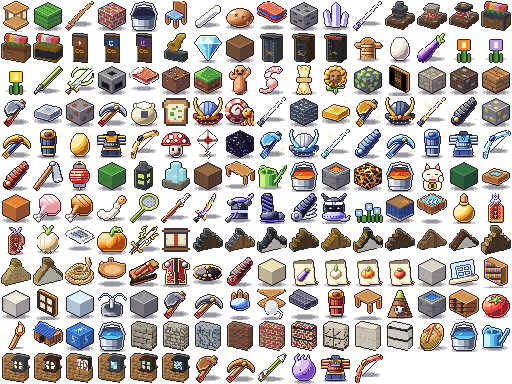
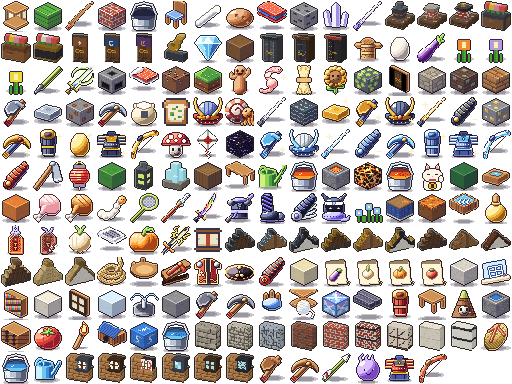
VOX-I-4b: すいしょう・とうろう・おちば の ブロック・アイテム・タイル・アイコン・光 (#187)
Claude-Session: https://claude.ai/code/session_013nE4QzFKYyVErTgK2z42dn

Changed region(s): [[0.0, 0.5, 1.0, 1.0]]

diff --git a/src/world/blocks/voxI4bTiles.ts b/src/world/blocks/voxI4bTiles.ts
@@ -1,0 +1,144 @@
+// vox-i-4b: すいしょう・とうろう・おちば の 1 コマめ（16x16、y=0 が 上）。voxI4aTiles.ts の GridTile / paintGrid を そのまま 使う（import して ね）。
+import type { GridTile } from './voxI4aTiles';
+
+const TILE_SUISHO_TOP: GridTile = {
+  pal: {W: '#F4FBFF', l: '#B8E4FA', b: '#86BDEB', p: '#B49CEA', d: '#5E7FC8'},
+  rows: [
+    'dddddddddddddddd',
+    'dpWppppWdpppppbd',
+    'dlWpppppdppppWWd',
+    'dllWppppppppWbbd',
+    'dlllWppppppWbbbd',
+    'dllllWbbllWbbbbd',
+    'dlllllWWWWbbbbbd',
+    'dddlllWWWWbbbbWd',
+    'dWbbbbWWWWlllddd',
+    'dbbbbbWWWWllllld',
+    'dbbbbWllbbWlllld',
+    'dbbbWlllbbbWllld',
+    'dbbWllllbbbbWlld',
+    'dWWlllldbbbbbWld',
+    'dbllllldWbbbbWbd',
+    'dddddddddddddddd',
+  ],
+};
+
+const TILE_SUISHO_SIDE: GridTile = {
+  pal: {W: '#F4FBFF', l: '#B8E4FA', b: '#86BDEB', p: '#B49CEA', d: '#5E7FC8'},
+  rows: [
+    'dddddddddddddddd',
+    'ddpppppdpppppddd',
+    'dWWppppdpppppWdd',
+    'dlWWpppdppppWWbd',
+    'dllWpppdpppWbbbd',
+    'dlllWppdppWbbbbd',
+    'dllllWbWlWbbbbbd',
+    'dlllllWWWbbbbbbd',
+    'dddddWWWWWdddddd',
+    'dbbbbbWWWlllllld',
+    'dbbbbWlWbWllllld',
+    'dbbbWlldbbWlllld',
+    'dbbWllldbbbWWlld',
+    'dWWlllldbbbbWlld',
+    'dWllllldbbbbWWdd',
+    'dddddddddddddddd',
+  ],
+};
+
+const TILE_TOURO_TOP: GridTile = {
+  pal: {s: '#9A9AA6', t: '#B8B8C4', u: '#6E6E80', o: '#F0A838', O: '#F7C860', e: '#FFFFFF', k: '#2A1A24', n: '#E8607A', m: '#8A3A2A', q: '#C8801E'},
+  rows: [
+    'tttttttttttttttt',
+    'tssssssssssssssu',
+    'tssssssssssssssu',
+    'tssuuuuuuuuuussu',
+    'tssuttttttttsssu',
+    'tssutOOOOOqtsssu',
+    'tssutOooooqtsssu',
+    'tssutOooooqtsssu',
+    'tssutOooooqtsssu',
+    'tssutOooooqtsssu',
+    'tssutqqqqqqtsssu',
+    'tssuttttttttsssu',
+    'tssusssssssssssu',
+    'tssssssssssssssu',
+    'tssssssssssssssu',
+    'tuuuuuuuuuuuuuuu',
+  ],
+};
+
+const TILE_TOURO_SIDE: GridTile = {
+  pal: {s: '#9A9AA6', t: '#B8B8C4', u: '#6E6E80', o: '#F0A838', O: '#F7C860', e: '#FFFFFF', k: '#2A1A24', n: '#E8607A', m: '#8A3A2A', q: '#C8801E'},
+  rows: [
+    'tttttttttttttttt',
+    'tssssssssssssssu',
+    'tsqqqqqqqqqqqqsu',
+    'tsqOOoeeeeoOOqsu',
+    'tsqooeeekeeooqsu',
+    'tsqooeekkeeooqsu',
+    'tsqooeekkeeooqsu',
+    'tsqooeekkeeooqsu',
+    'tsqoooeeeeoooqsu',
+    'tsqooooooooooqsu',
+    'tsqommmmmmmmoqsu',
+    'tsqooonnnnoooqsu',
+    'tsqoooonnooooqsu',
+    'tsqqqqqqqqqqqqsu',
+    'tssssssssssssssu',
+    'uuuuuuuuuuuuuuuu',
+  ],
+};
+
+const TILE_OCHIBA_TOP: GridTile = {
+  pal: {R: '#B8422A', r: '#8E2E22', O: '#D8782A', Y: '#E8B83A', y: '#F2D46A', D: '#8B5A2B', d: '#6F4520', L: '#A06A38'},
+  rows: [
+    'OOOOOYYOOOOOOOOO',
+    'ORROOYOYYOOOOOrO',
+    'ORrOOOOYOrrOOOOO',
+    'OOOOOOOOOrOOOOOO',
+    'OOOyyOOOOOOOOOrr',
+    'OOOyOOORROOYYOrO',
+    'OrrOOOORrOOYOOOO',
+    'OrOOOOOOOOOOOOOO',
+    'OOOOOOOORROOOOOO',
+    'OrOOyyOORrOOYYOO',
+    'OOOOyOOOOOOOYOOO',
+    'OOOOOOOOOOOOOOOO',
+    'OOrrOOOOOOyyOOOO',
+    'OOrOOOOOOOyOOORR',
+    'OOOOOOOrOOOOOORr',
+    'OOOOOOOOOOOOOOOO',
+  ],
+};
+
+const TILE_OCHIBA_SIDE: GridTile = {
+  pal: {R: '#B8422A', r: '#8E2E22', O: '#D8782A', Y: '#E8B83A', y: '#F2D46A', D: '#8B5A2B', d: '#6F4520', L: '#A06A38'},
+  rows: [
+    'RrRYOOOYRrRYOOOY',
+    'YOORYRrRYROOYRRR',
+    'rYrDRYrrODrrRrDO',
+    'DrDDrODDrDDOrDDr',
+    'DDDDDrDDDDDrDDDD',
+    'DDDDDDDDDDDDDDDD',
+    'DDDDdDDDDDDDDDDD',
+    'dDDDDdDDDDDDDDDD',
+    'LdDDDDDDDDDDDDDD',
+    'DDDDdDLDDDDDDDDD',
+    'DLDDDDDDDDDDDDdD',
+    'DLLdDdDDLDDDDDDL',
+    'DDDDDDDDDDDdDdDD',
+    'DDdDDDDDDDDDDDDD',
+    'DDdDDDDDDDDDDDDD',
+    'DDDDDDDLDDDDDDDD',
+  ],
+};
+
+/** タイル名 → 1 コマめの 絵（textures.ts の VoxITileName と 同じ 名前。足し忘れは 型エラー）。まばたき・いき・つぶは #186 */
+export const VOX_I4B_GRIDS = {
+  suisho_top: TILE_SUISHO_TOP,
+  suisho_side: TILE_SUISHO_SIDE,
+  touro_top: TILE_TOURO_TOP,
+  touro_side: TILE_TOURO_SIDE,
+  ochiba_top: TILE_OCHIBA_TOP,
+  ochiba_side: TILE_OCHIBA_SIDE,
+} as const satisfies Record<string, GridTile>;

diff --git a/src/world/blocks/textures.ts b/src/world/blocks/textures.ts
@@ -17,6 +17,7 @@ import { BOIL_NAMES, WATERFALL_BLOCK_TILES, WATERFALL_TILE_NAMES, isWaterfallTil
 import { paintLeafTile } from './leafTextures';
 import { HOUSE_ATLAS_TILE_NAMES, HOUSE_BLOCK_TILES, isHouseTile, paintHouseTile, type HouseAtlasTile } from './houseTextures';
 import { VOX_I4A_GRIDS, paintGrid } from './voxI4aTiles';
+import { VOX_I4B_GRIDS } from './voxI4bTiles';
 import { protoBambooPixels, protoLeafPixels } from '../render/leafBambooArt';
 
 /** 16x16 ドット絵をコードで描く（M1-01 4-2 の色）。 */
@@ -61,8 +62,10 @@ export type TileName =
 /** VOX-I-1（12 の国）のふつうの絵（一ひねりの絵は #185） */
 export type VoxITileName = 'snow' | 'momiji_leaves' | 'matsu_leaves' | 'flower_y' | 'flower_o' | 'flower_p' | 'bamboo' | 'susuki' | 'kusa' | 'nobana'
   // VOX-I-4a（#187。国だけの物 その 1 の 1 コマめ。絵は voxI4aTiles.ts）
-  | 'kinoko' | 'himawari_ue' | 'himawari_shita' | 'kaigara' | 'takenoko';
-const VOX_I_TILES: readonly VoxITileName[] = ['snow', 'momiji_leaves', 'matsu_leaves', 'flower_y', 'flower_o', 'flower_p', 'bamboo', 'susuki', 'kusa', 'nobana', 'kinoko', 'himawari_ue', 'himawari_shita', 'kaigara', 'takenoko'];
+  | 'kinoko' | 'himawari_ue' | 'himawari_shita' | 'kaigara' | 'takenoko'
+  // VOX-I-4b（#187。山の物の 1 コマめ。絵は voxI4bTiles.ts）
+  | 'suisho_top' | 'suisho_side' | 'touro_top' | 'touro_side' | 'ochiba_top' | 'ochiba_side';
+const VOX_I_TILES: readonly VoxITileName[] = ['snow', 'momiji_leaves', 'matsu_leaves', 'flower_y', 'flower_o', 'flower_p', 'bamboo', 'susuki', 'kusa', 'nobana', 'kinoko', 'himawari_ue', 'himawari_shita', 'kaigara', 'takenoko', 'suisho_top', 'suisho_side', 'touro_top', 'touro_side', 'ochiba_top', 'ochiba_side'];
 
 /** M7 農業の絵の名前（`farm.texture` の name と同じ） */
 export type FarmTileName =
@@ -368,7 +371,7 @@ function paintTile(name: TileName): Tile {
   if (name === MAKIMONO_TILE) return paintMakimonoTile().slice(); // HOUSE-2A: まきもの
   if (isRopeTile(name)) return paintRopeTile(name).slice(); // ROPE-1
   if (isWaterfallTile(name)) return paintWaterfallTile(name).slice(); // WATERFALL-1
-  const grid = (VOX_I4A_GRIDS as Readonly<Record<string, Parameters<typeof paintGrid>[0]>>)[name]; // VOX-I-4a: すきまの ある 十字の 板は calm() を かけない（はな・すすきと 同じ）
+  const grid = (VOX_I4A_GRIDS as Readonly<Record<string, Parameters<typeof paintGrid>[0]>>)[name] ?? (VOX_I4B_GRIDS as Readonly<Record<string, Parameters<typeof paintGrid>[0]>>)[name]; // VOX-I-4a: すきまの ある 十字の 板は calm() を かけない（はな・すすきと 同じ）
   if (grid !== undefined) return paintGrid(grid);
   if (isHouseTile(name)) return paintHouseTile(name).map((c): Rgba => [(c >> 16) & 255, (c >> 8) & 255, c & 255, 255]); // HOUSE-1C: 家の ブロック・家具
   switch (name) {
@@ -564,6 +567,10 @@ export const BLOCK_TILES: Readonly<Partial<Record<BlockId, readonly [TileName, T
   himawari_top: ['himawari_ue', 'himawari_ue', 'himawari_ue'],
   kaigara: ['kaigara', 'kaigara', 'kaigara'],
   takenoko: ['takenoko', 'takenoko', 'takenoko'],
+  // VOX-I-4b: 山の物（[上, 下, よこ]）
+  suisho: ['suisho_top', 'suisho_side', 'suisho_side'],
+  touro: ['touro_top', 'touro_side', 'touro_side'],
+  ochiba: ['ochiba_top', 'dirt', 'ochiba_side'],
   // #293 試作
   geyser_dirt: ['geyser_dirt_top', 'geyser_dirt_side', 'geyser_dirt_side'],
   // ITEM-FX-1: 置き物 3 つ（形は meshChunk の pushProp。ここは ひび・かけらの 色用）

diff --git a/src/content/items/blocks.test.ts b/src/content/items/blocks.test.ts
@@ -57,6 +57,8 @@ const EXPECT: Record<string, Expect> = {
 const IDS = Object.keys(EXPECT);
 /** VOX-I-4a（#187）で 足した 4 つ（きのこ・ひまわり・かいがら・たけのこ）。説明は なし（かざり）。値は voxI4a の 専用テストで 見る */
 const VOX_I_4A = ['kinoko', 'himawari', 'kaigara', 'takenoko'];
+/** VOX-I-4b（#187）で 足した 2 つ（すいしょう・おちば）。説明は あり。値は voxI4b の 専用テストで 見る（とうろうは 持てないので アイテムに ならない） */
+const VOX_I_4B = ['suisho', 'ochiba'];
 
 describe('登録表（置けるブロック 22 個）', () => {
   it('22 個すべてに ItemDef が ある（8 + 5 + 1 + 8）', () => {
@@ -64,8 +66,8 @@ describe('登録表（置けるブロック 22 個）', () => {
     expect(Object.keys(PLACEABLE)).toHaveLength(8);
     expect(Object.keys(M4_BLOCKS)).toEqual(['furnace', 'kawara', 'brick', 'torch', 'tansu']);
     expect(Object.keys(GEYSER)).toEqual(['geyser_dirt']);
-    expect(Object.keys(VOX_I)).toHaveLength(8 + VOX_I_4A.length);
-    expect([...Object.keys(PLACEABLE), ...Object.keys(M4_BLOCKS), ...Object.keys(GEYSER), ...Object.keys(VOX_I)].sort()).toEqual([...IDS, ...VOX_I_4A].sort());
+    expect(Object.keys(VOX_I)).toHaveLength(8 + VOX_I_4A.length + VOX_I_4B.length);
+    expect([...Object.keys(PLACEABLE), ...Object.keys(M4_BLOCKS), ...Object.keys(GEYSER), ...Object.keys(VOX_I)].sort()).toEqual([...IDS, ...VOX_I_4A, ...VOX_I_4B].sort());
     for (const id of IDS) expect(itemDef(id), id).toBeDefined();
   });
 
@@ -87,8 +89,8 @@ describe('登録表（置けるブロック 22 個）', () => {
   });
 
   it('説明が 無い 9 個は 地形・かざり（geyser_dirt と 12 の国の 8 つ。許可リストは noInfoOk.ts の 1 か所）', () => {
-    expect([...IDS, ...VOX_I_4A].filter((id) => !itemDef(id)!.info).sort()).toEqual(Object.keys(NO_INFO_OK).sort());
-    expect(Object.keys(NO_INFO_OK)).toHaveLength(9 + VOX_I_4A.length);
+    expect([...IDS, ...VOX_I_4A, ...VOX_I_4B].filter((id) => !itemDef(id)!.info).sort()).toEqual(Object.keys(NO_INFO_OK).sort());
+    expect(Object.keys(NO_INFO_OK)).toHaveLength(9 + VOX_I_4A.length + VOX_I_4B.length);
   });
 
   it('ITEM_TYPES の 並び: 先頭 8 → ざいりょう 7 → かまど・かわら・レンガ・たいまつ・たんす / 侍装備の 次に 間欠泉の つち / バケツの 次に 12 の国の 8 つ', () => {
@@ -103,8 +105,8 @@ describe('登録表（置けるブロック 22 個）', () => {
   });
 
   it('色分けの 並び: 古い表と 同じ', () => {
-    expect(CATEGORY_ITEMS.soil).toEqual(['dirt', 'sand', 'snow', 'geyser_dirt']);
-    expect(CATEGORY_ITEMS.stone).toEqual(['stone']);
+    expect(CATEGORY_ITEMS.soil.filter((id) => !VOX_I_4B.includes(id))).toEqual(['dirt', 'sand', 'snow', 'geyser_dirt']);
+    expect(CATEGORY_ITEMS.stone.filter((id) => !VOX_I_4B.includes(id))).toEqual(['stone']);
     // MINE-1B: 鉱石の 分けに せっかいせき・ほたるいし・きんの いし、たてものの 分けに しっくいが ふえる。今の 物の 並びは かわらない（新しい 物の 位置は 決めない）
     const keep = (list: readonly string[], ids: readonly string[]): string[] => list.filter((id) => ids.includes(id));
     expect(keep(CATEGORY_ITEMS.ore, ['coal_ore', 'iron_ore'])).toEqual(['coal_ore', 'iron_ore']);

diff --git a/src/world/light/opacity.ts b/src/world/light/opacity.ts
@@ -20,5 +20,8 @@ const ANDON_INDEX: ReadonlySet<number> = new Set(FURN_BLOCK_IDS.filter((id) => i
 /** WATERFALL-1: マグマ（量 1〜8）は 光る（マグマの わきどころは 光らない。出た マグマが 光る） */
 const MAGMA_GLOW: ReadonlySet<number> = new Set(BLOCK_TYPES.map((_, i) => i).filter((i) => isMagmaIndex(i)));
 
+/** 山の物（VOX-I-4b）の 光: すいしょう = suishoLevel、とうろう = たいまつと 同じ。光る 山の 物を ふやす ときは ここ */
+const MOUNTAIN_GLOW: ReadonlyMap<number, number> = new Map<number, number>([[BLOCK_INDEX.suisho, C.suishoLevel], [BLOCK_INDEX.touro, C.torchLevel]]);
+
 /** ブロックが出す光（0 = 光らない） */
-export const EMISSION: Uint8Array = Uint8Array.from(BLOCK_TYPES, (_, i) => (isTorchIndex(i) || ANDON_INDEX.has(i) ? C.torchLevel : isLampIndex(i) ? GADGET_TUNING.lantern.light : i === HOTARUISHI ? C.hotaruishiLevel : MAGMA_GLOW.has(i) ? MAGMA_TUNING.light : 0)); // ちょうちんは 表の 強さ（ITEM-FX-1）。ほたるいしは 光る 固い ブロック（MINE-1B。光は となりの 空気へ 広がる）
+export const EMISSION: Uint8Array = Uint8Array.from(BLOCK_TYPES, (_, i) => (isTorchIndex(i) || ANDON_INDEX.has(i) ? C.torchLevel : isLampIndex(i) ? GADGET_TUNING.lantern.light : i === HOTARUISHI ? C.hotaruishiLevel : MAGMA_GLOW.has(i) ? MAGMA_TUNING.light : MOUNTAIN_GLOW.get(i) ?? 0)); // ちょうちんは 表の 強さ（ITEM-FX-1）。ほたるいしは 光る 固い ブロック（MINE-1B。光は となりの 空気へ 広がる）

diff --git a/src/dig/config.ts b/src/dig/config.ts
@@ -137,6 +137,10 @@ export const DIG_DEFAULTS: Readonly<DigConfig> = {
     himawari_top: 0.05,
     kaigara: 0.05,
     takenoko: 0.05,
+    // VOX-I-4b（山の物。すいしょう = 3 秒、おちば = つちと 同じ、とうろう = こわせない）
+    suisho: 3,
+    touro: null,
+    ochiba: 0.5,
     // MINE-1B（#349。仕様 §4.4。素手の 秒数。時間 = 固さ ÷ 道具の 強さ）
     nendo: 1, // つち より 少し かたい（すでで 1 秒）
     sekkaiseki: 5, // いしの つるはし（強さ 4）で 1.25 秒
@@ -264,6 +268,9 @@ export const DIG_DEFAULTS: Readonly<DigConfig> = {
     himawari_top: 0,
     kaigara: 0,
     takenoko: 0,
+    suisho: 0,
+    touro: 0,
+    ochiba: 0,
     // MINE-1B（0 = すで・1 = いしの つるはし・2 = てつの つるはし から）
     nendo: 0,
     sekkaiseki: 1,
@@ -381,6 +388,9 @@ export const DIG_DEFAULTS: Readonly<DigConfig> = {
     himawari_top: 'common',
     kaigara: 'common',
     takenoko: 'common',
+    suisho: 'rare',
+    touro: 'common',
+    ochiba: 'common',
     // MINE-1B（ほると 手に 入る 数の 上限を きめる。しるしは 何も 出ない ので 使わない）
     nendo: 'uncommon',
     sekkaiseki: 'uncommon',

diff --git a/src/world/blocks/calm.test.ts b/src/world/blocks/calm.test.ts
@@ -207,6 +207,8 @@ describe('CALM 基準 5: 変えない絵は 1 画素も変わらない', () => {
     bamboo: 'bcd51113', flower_o: '2fbe135', flower_p: '7f48c5f5', flower_y: 'e647bd15',
     // VOX-I-4a（#187）: 国だけの物 その 1 の 4 ブロック（5 まい）の 1 コマめ。絵は voxI4aTiles.ts（calm は かけない）。今の 絵を 守るだけ
     kinoko: '4b272997', himawari_ue: 'e8750110', himawari_shita: 'f33d35c1', kaigara: '3442b0bb', takenoko: 'd37c2893',
+    // VOX-I-4b（#187）: 山の物の 3 ブロック（6 まい）。絵は voxI4bTiles.ts。今の 絵を 守るだけ
+    suisho_top: '633d5d4d', suisho_side: '432a5080', touro_top: 'a6e5081e', touro_side: 'b514d7c4', ochiba_top: '11465b83', ochiba_side: '83e8cd33',
     // はっぱ 3 まい: もこもこの 新しい 絵（2026-11-10 オーナー OK。leafTextures.ts）。今の 絵を 守るだけ
     leaves: 'ef89d522', matsu_leaves: '55235a61', momiji_leaves: '6d479be2', snow: 'b5d0ee8f', susuki: '58e578b5',
     // LIVE-2（こたつ・とりごや。ふつうの 絵。今の 絵を 守るだけ）

diff --git a/src/dig/mineBoken.test.ts b/src/dig/mineBoken.test.ts
@@ -106,7 +106,7 @@ describe('E12: 新しい ブロックの 値', () => {
 
   it('1E で 足した id は 10 こ 以下・合計は 256 以下', () => {
     expect(BLOCK_TYPES.length - BLOCKS_THROUGH_1D, '1E で 足した id').toBeGreaterThanOrEqual(ROWS.length);
-    expect(BLOCK_TYPES.length - BLOCKS_THROUGH_1D, '1E で 足した id').toBeLessThanOrEqual(10 + 5 + 20 + 5); // 20 ＝ HOUSE-2B の 形ごとの ブロック 20 ＋ 5 ＝ HOUSE-2A（#364）が 後ろに 足した まきもの 1 ＋ まねきねこ 4（向き）＋ 最後の 5 ＝ VOX-I-4a（#187）の 国だけの 物 5 こ
+    expect(BLOCK_TYPES.length - BLOCKS_THROUGH_1D, '1E で 足した id').toBeLessThanOrEqual(10 + 5 + 20 + 5 + 3); // 20 ＝ HOUSE-2B の 形ごとの ブロック 20 ＋ 5 ＝ HOUSE-2A（#364）が 後ろに 足した まきもの 1 ＋ まねきねこ 4（向き）＋ 最後の 5 ＝ VOX-I-4a（#187）の 国だけの 物 5 こ ＋ 3 ＝ VOX-I-4b（#187）の 山の 物 3 こ（すいしょう・とうろう・おちば）
     expect(BLOCK_TYPES.length).toBeLessThanOrEqual(256);
   });
 });

diff --git a/src/contracts/world.ts b/src/contracts/world.ts
@@ -145,7 +145,11 @@ export type BlockId =
   | 'himawari' // ひまわり（はなばたけ。2 段の 下の 段 = くき。ほると himawari 1 こ）
   | 'himawari_top' // ひまわり の 上の 段（花）。持ち物に 入らない（ほると himawari）
   | 'kaigara' // かいがら（すなはま。すなの 上の 小さな 板）
-  | 'takenoko'; // たけのこ（たけやぶ）
+  | 'takenoko' // たけのこ（たけやぶ）
+  // VOX-I-4b（#187。うしろに足す。242〜244）: 山の物（固い 箱）
+  | 'suisho' // すいしょう（いわやま。光 9。ほれる・持てる・置ける）。炭鉱の suisho_ore・アイテム crystal とは べつ
+  | 'touro' // とうろう（てんぐの やま の 頂上。光 14。こわせない・持てない）
+  | 'ochiba'; // おちば（もみじやま の もみじの木の まわりの 地面。ほれる・持てる・置ける）
 
 export interface BlockType {
   id: BlockId;

diff --git a/src/ui/itemCategory.ts b/src/ui/itemCategory.ts
@@ -47,8 +47,8 @@ const blocksIn = (cat: ItemCategory, ids: readonly ItemDefId[]): string[] => reg
  */
 const ORDER_ITEMS: Readonly<Record<ItemCategory, readonly string[]>> = {
   // 置ける ブロックの 分類は 登録表（content/items/blocks.ts）の category から
-  soil: blocksIn('soil', ['dirt', 'sand', 'snow', 'geyser_dirt']),
-  stone: blocksIn('stone', ['stone']),
+  soil: blocksIn('soil', ['dirt', 'sand', 'snow', 'geyser_dirt', 'ochiba']),
+  stone: blocksIn('stone', ['stone', 'suisho']),
   plant: [...blocksIn('plant', ['grass', 'log', 'leaves']), ...registryCategoryIds('plant', SEED_DEFS), ...blocksIn('plant', ['momiji_leaves', 'matsu_leaves', 'flower_y', 'flower_o', 'flower_p', 'bamboo']), ...registryCategoryIds('plant', LIVE_DEFS), ...blocksIn('plant', ['nobana', 'kinoko', 'himawari', 'kaigara', 'takenoko'])],
   ore: blocksIn('ore', ['coal_ore', 'iron_ore']),
   build: blocksIn('build', ['kawara', 'brick']),

diff --git a/src/content/items/blocks.ts b/src/content/items/blocks.ts
@@ -280,6 +280,23 @@ export const VOX_I = {
     rarity: blockRarity('takenoko'),
     category: 'plant',
   },
+  // VOX-I-4b（#187）: 山の物 2 つ（とうろう touro は こわせない・持てない ので アイテムに ならない）
+  suisho: {
+    name: blockName('suisho'),
+    zukan: 'いわやまの くぼみで ひかる すいしょう。ほり［出｜だ］して おけば、よるでも まわりが ほんのり あかるいよ。',
+    maxStack: BLOCK_STACK,
+    placeBlock: 'suisho',
+    rarity: blockRarity('suisho'),
+    category: 'stone',
+  },
+  ochiba: {
+    name: blockName('ochiba'),
+    zukan: 'もみじの ［木｜き］の したに つもった あかい おちば。ふむと ふかふか して いそう。',
+    maxStack: BLOCK_STACK,
+    placeBlock: 'ochiba',
+    rarity: blockRarity('ochiba'),
+    category: 'soil',
+  },
 } satisfies Partial<Record<BlockId, ItemDef>>;
 
 /**

diff --git a/src/world/light/config.ts b/src/world/light/config.ts
@@ -5,6 +5,8 @@ export const LIGHT_CONFIG = {
   torchLevel: 14,
   /** ほたるいし（MINE-1B）の明るさ。置いた マスが 7・となり 6・2 マス 先 5（空気の 中を 1 マスずつ。たいまつの 半分。yuzu「光りすぎじゃない？」で 10 → 7） */
   hotaruishiLevel: 7,
+  /** すいしょう（VOX-I-4b #187。山の物）の明るさ。置いた マスが 9・3 マス先まで 光が 届いて 妖怪が 出ない（たいまつの 14・8 マスの 下）。とうろうは たいまつと 同じ torchLevel */
+  suishoLevel: 9,
   /** たいまつの明るさは 3 だんかい（オーナー決定）: 光が空気を 1 マスずつ広がる数え方で、
    *  4 マスまで＝強い明かり、5〜8 マス＝少し明るい、それより遠い＝明かりなし */
   torchBrightRadius: 4,

diff --git a/src/content/items/live.test.ts b/src/content/items/live.test.ts
@@ -60,7 +60,7 @@ describe('登録表（生き物 8 個）', () => {
   it('ITEM_TYPES は 花の ブロックの 次に、たまご → むし → むしとりあみ → こたつ → とりごや → きんの たまご → もも にく 2 つ の 順', () => {
     const ids = ITEM_TYPES.map((t) => t.id as string);
     const i = ids.indexOf('egg');
-    expect(ids.slice(i - 1, i + 9)).toEqual(['takenoko', 'egg', 'mushi', 'mushi_ami', 'nukunuku', 'toriya', 'kin_tamago', 'momo_nama', 'momo_yaki', 'raijin_ken']);
+    expect(ids.slice(i - 1, i + 9)).toEqual(['ochiba', 'egg', 'mushi', 'mushi_ami', 'nukunuku', 'toriya', 'kin_tamago', 'momo_nama', 'momo_yaki', 'raijin_ken']);
   });
 
   it('色分けの 並び: 古い表と 同じ', () => {
